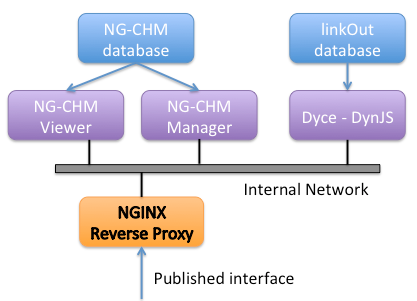
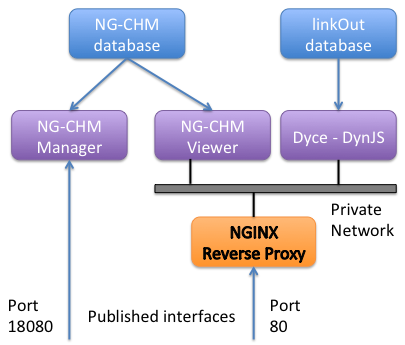
Updated architecture description

diff --git a/rproxy.build/docroot/architecture.html b/rproxy.build/docroot/architecture.html
@@ -30,18 +30,20 @@ There are two data containers:
 <LI>a data container containing the NG-CHMs uploaded to the system, and
 <LI>a data container containing a database of read-only linkout definitions.
 </UL>
-There are three 'backend' server containers:
+There are three application server containers:
 <UL>
 <LI>an NG-CHM viewer container,
 <LI>an NG-CHM manager container,
 <LI>a DyCE container for creating content-specific linkouts.
 </UL>
-The three backend server containers are connected to a private (internal) Docker network.
+The NG-CHM and DyCE server containers are connected to a private (internal) Docker network.
 <P>
-The final container implements a reverse-proxy server with a published interface on a public
-network.  The reverse proxy container is also connected to the private network and forwards
+A published, view-only interface is implemented via a reverse-proxy server.
+The reverse proxy container is also connected to the private network and forwards
 client requests to the appropriate 'backend' container.
-</UL>
+<P>
+To enable users of this system to limit write access to the system, the NG-CHM Manager interface is published
+separately.
 
 </td></tr>
 </table>
